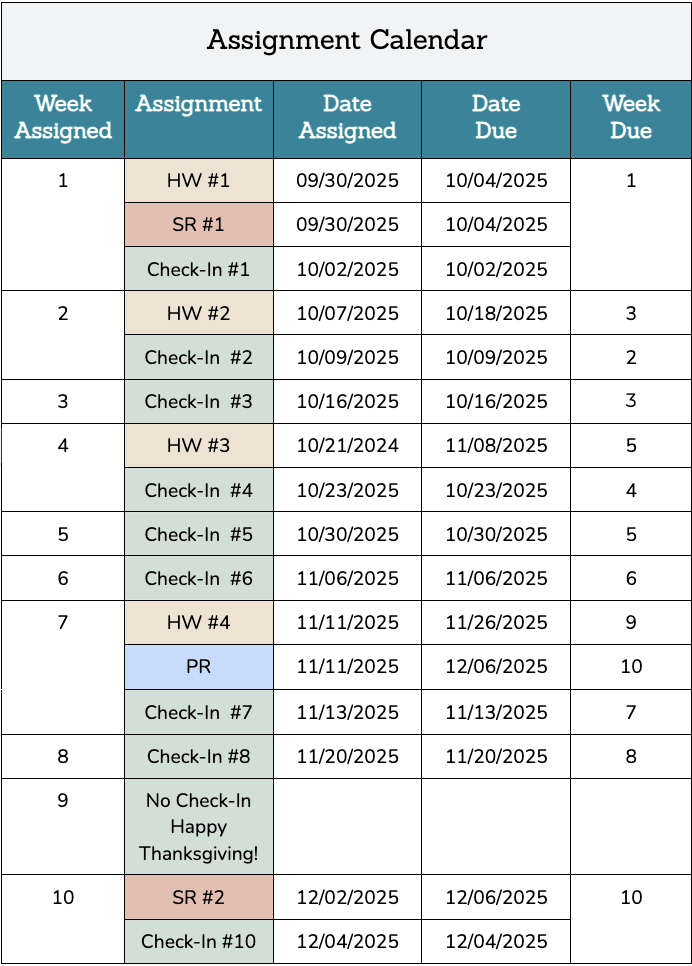
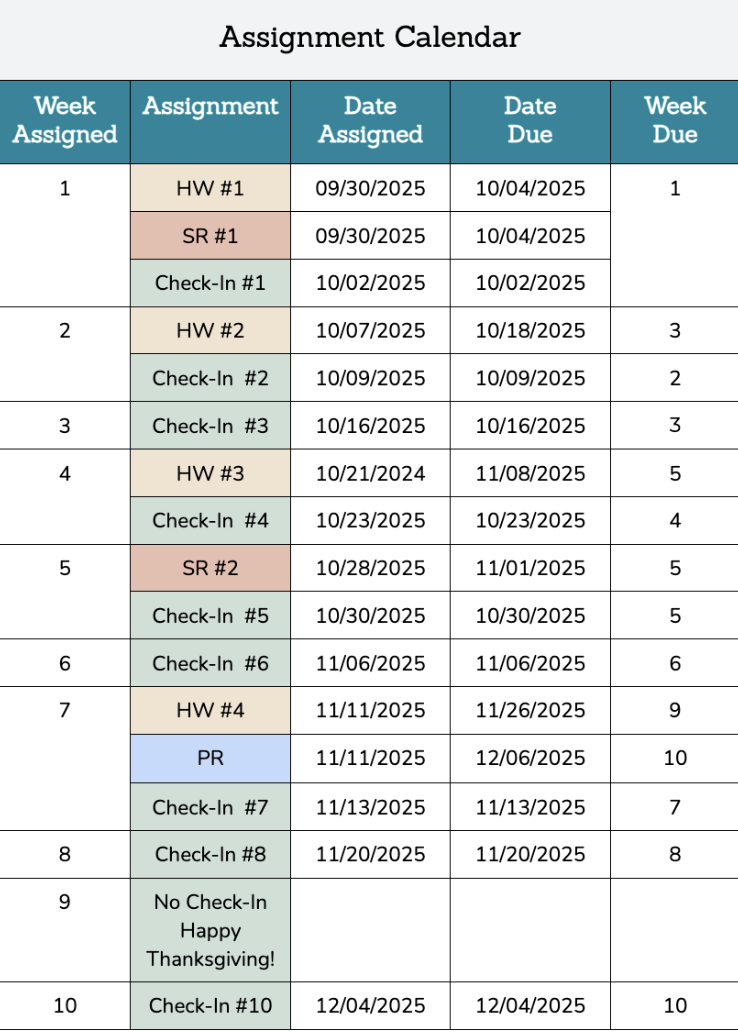
Update syllabus to remove SRs as part of grade

diff --git a/docs/assignments.html b/docs/assignments.html
@@ -100,42 +100,6 @@ ul.task-list li input[type="checkbox"] {
     <a class="dropdown-item" href="./course-materials/week0.html" rel="" target="">
  <span class="dropdown-text">week 0</span></a>
   </li>  
-        <li>
-    <a class="dropdown-item" href="./course-materials/week1.html" rel="" target="">
- <span class="dropdown-text">week 1</span></a>
-  </li>  
-        <li>
-    <a class="dropdown-item" href="./course-materials/week2.html" rel="" target="">
- <span class="dropdown-text">week 2</span></a>
-  </li>  
-        <li>
-    <a class="dropdown-item" href="./course-materials/week3.html" rel="" target="">
- <span class="dropdown-text">week 3</span></a>
-  </li>  
-        <li>
-    <a class="dropdown-item" href="./course-materials/week4.html" rel="" target="">
- <span class="dropdown-text">week 4</span></a>
-  </li>  
-        <li>
-    <a class="dropdown-item" href="./course-materials/week5.html" rel="" target="">
- <span class="dropdown-text">week 5</span></a>
-  </li>  
-        <li>
-    <a class="dropdown-item" href="./course-materials/week6.html" rel="" target="">
- <span class="dropdown-text">week 6</span></a>
-  </li>  
-        <li>
-    <a class="dropdown-item" href="./course-materials/week8.html" rel="" target="">
- <span class="dropdown-text">week 8</span></a>
-  </li>  
-        <li>
-    <a class="dropdown-item" href="./course-materials/week9.html" rel="" target="">
- <span class="dropdown-text">week 9</span></a>
-  </li>  
-        <li>
-    <a class="dropdown-item" href="./course-materials/week10.html" rel="" target="">
- <span class="dropdown-text">week 10</span></a>
-  </li>  
     </ul>
   </li>
   <li class="nav-item">
@@ -143,7 +107,7 @@ ul.task-list li input[type="checkbox"] {
  <span class="menu-text">assignments</span></a>
   </li>  
   <li class="nav-item">
-    <a class="nav-link" href="https://script.google.com/a/macros/ucsb.edu/s/AKfycbxg517S3NoG8CT51pdz5xHVshhgHX3vKrTQnKJu6GU/dev" rel="" target="">
+    <a class="nav-link" href="https://script.google.com/a/macros/ucsb.edu/s/AKfycbx2l5pbXt0J8y2PnNi9Ohi3jxRZGd4dZfZMBMT_MWA23OPQ0Dt31vC7zbAWVHtcFC5C/exec" rel="" target="">
  <span class="menu-text">redeem tokens</span></a>
   </li>  
   <li class="nav-item">
@@ -284,21 +248,21 @@ Important
 <td>11/09/2025</td>
 </tr>
 <tr class="odd">
+<td>SR</td>
+<td><a href="./assignments/SR3.html" target="_blank">Mid Quarter Self Reflection (SR#2)</a></td>
+<td>10/28/2025</td>
+<td>11/01/2025</td>
+</tr>
+<tr class="even">
 <td>HW</td>
 <td><a href="./assignments/HW4.html" target="_blank">Homework Assignment #4</a></td>
 <td>11/11/2025</td>
 <td>11/26/2025</td>
 </tr>
-<tr class="even">
+<tr class="odd">
 <td>PR</td>
 <td><a href="./assignments/PR.html" target="_blank">Portfolio Repository</a></td>
 <td>11/11/2025</td>
-<td>12/06/2025</td>
-</tr>
-<tr class="odd">
-<td>SR</td>
-<td><a href="./assignments/SR3.html" target="_blank">Final Self Reflection (SR#2)</a></td>
-<td>12/02/2025</td>
 <td>12/06/2025</td>
 </tr>
 </tbody>
